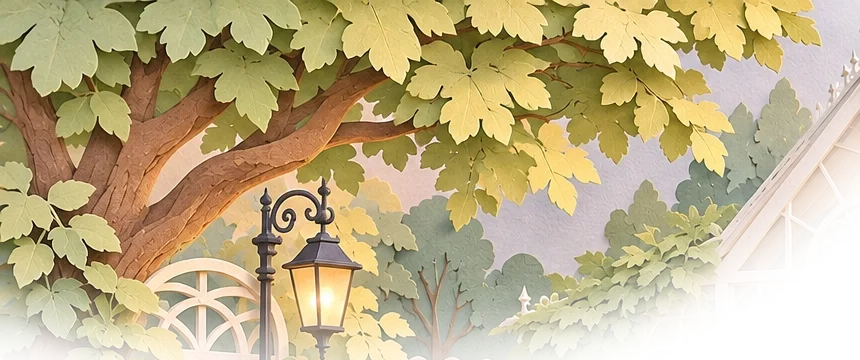
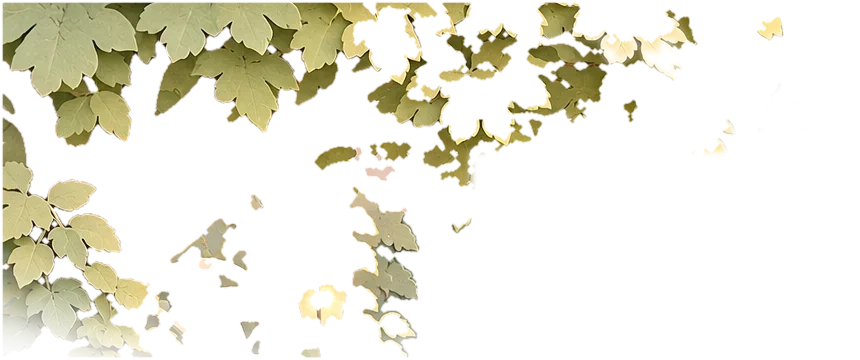
花園大樹只擺動樹冠葉子，不再帶動背景與玻璃屋
Claude-Session: https://claude.ai/code/session_015p85XBWVqjkFtHRQgipjj8

diff --git a/src/style.css b/src/style.css
@@ -701,3 +701,8 @@ body:has(.garden-app) { background: var(--gp-bg); }
 .item-edit { text-align: left; min-width: 0; }
 .edit-hint { color: var(--muted); margin-left: 6px; vertical-align: -1px; }
 .photo-big { width: 100%; border-radius: 14px; display: block; }
+
+/* 大樹只擺動樹冠的葉子，幅度小 */
+.scene-tree { transform-origin: 10% 100%; animation: treeLeaves 7s ease-in-out infinite; }
+@keyframes treeLeaves { 0%, 100% { transform: rotate(-.35deg); } 50% { transform: rotate(.4deg); } }
+@media (prefers-reduced-motion: reduce) { .scene-tree { animation: none; } }

diff --git a/scripts/garden-scene.py b/scripts/garden-scene.py
@@ -36,7 +36,16 @@ def overlay(box, name, ellipse, plant_only=False):
     c.putalpha(m)
     c.save(out + name, quality=84, method=4)
 
-overlay((0, 0, 860, 360), 'tree.webp', (-0.3, -0.6, 1.0, 0.95))       # 左上大樹的樹冠
+overlay((0, 0, 860, 360), 'tree.webp', (-0.3, -0.6, 1.0, 0.95), True)     # 左上大樹的樹冠
+# 樹冠只留大樹自己的葉子：去掉溫室旁的藤蔓（右下）和遠處淡綠色的背景樹（右上，飽和度較低）
+_t = Image.open(out + 'tree.webp').convert('RGBA')
+_a = np.array(_t).astype(float)
+_r, _g, _b = _a[..., 0], _a[..., 1], _a[..., 2]
+_sat = (_a[..., :3].max(2) - _a[..., :3].min(2)) / (_a[..., :3].max(2) + 1e-6)
+_yy, _xx = np.mgrid[0:_a.shape[0], 0:_a.shape[1]]
+_keep = ~(((_xx > 470) & (_yy > 150)) | ((_xx > 560) & (_sat < 0.32)))
+_a[..., 3] *= ndimage.gaussian_filter(_keep.astype(float), 3)
+Image.fromarray(_a.astype(np.uint8), 'RGBA').save(out + 'tree.webp', quality=84, method=4)
 LEFT, RIGHT = (480, 170, 760, 480), (1020, 150, 1300, 520)
 overlay(LEFT, 'vines.webp', (0.05, -0.1, 0.95, 1.0), True)                   # 溫室左側的藤蔓
 overlay(RIGHT, 'vines-right.webp', (0.08, -0.05, 0.92, 1.0), True)          # 溫室右側的藤蔓
